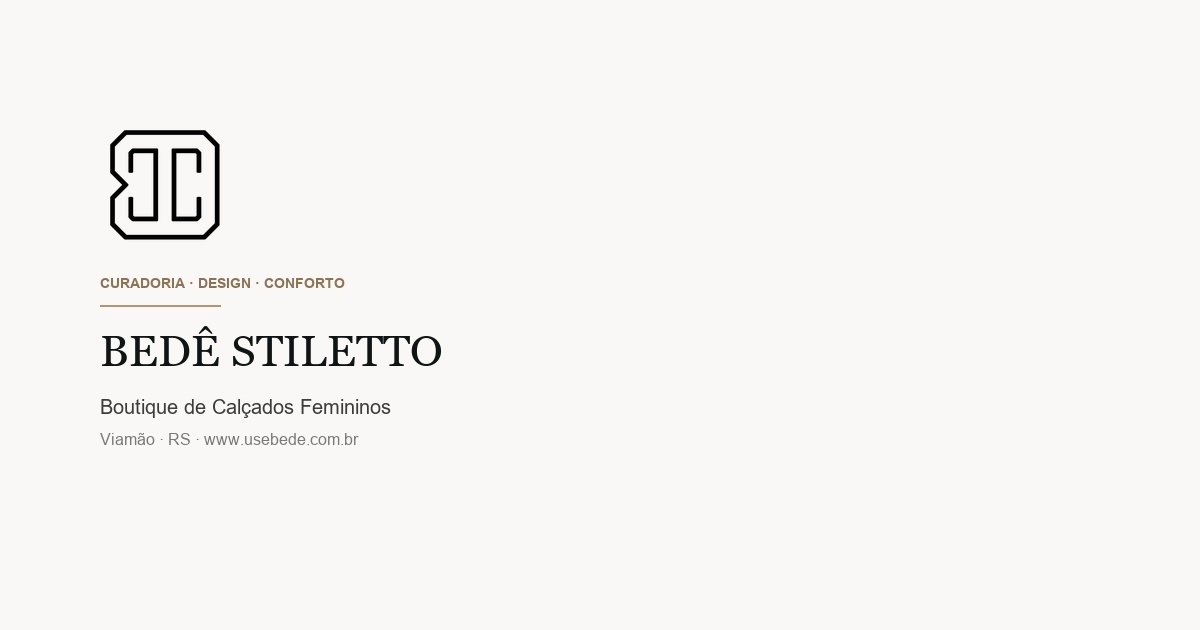
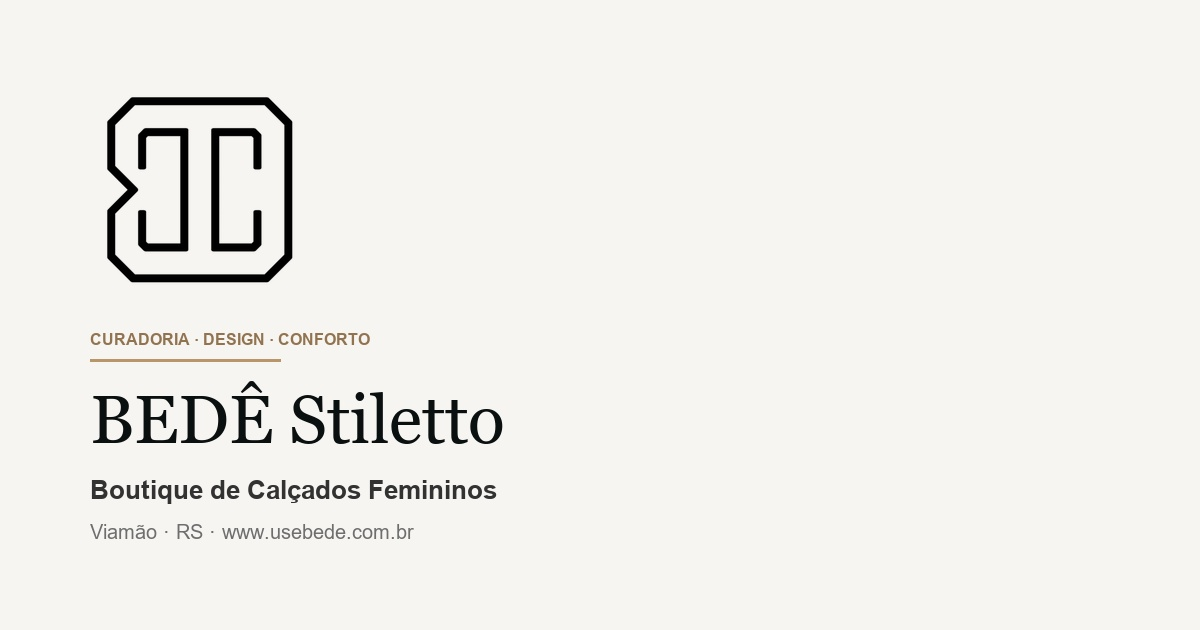
feat: enlarge monogram and typography in OG card and format BEDE Stiletto

Changed region(s): [[0.0617, 0.1508, 0.4317, 0.7238], [0.0617, 0.754, 0.4317, 0.8746]]

diff --git a/index.html b/index.html
@@ -15,15 +15,15 @@
   <meta property="og:site_name" content="BEDÊ Stiletto">
   <meta property="og:title" content="BEDÊ Stiletto — Boutique de Calçados Femininos | Viamão RS">
   <meta property="og:description" content="Calçados e bolsas femininas com curadoria, design e conforto. Boutique em Viamão/RS.">
-  <meta property="og:image" content="https://www.usebede.com.br/og-image.jpg?v=2026_light_v2">
-  <meta property="og:image:secure_url" content="https://www.usebede.com.br/og-image.jpg?v=2026_light_v2">
+  <meta property="og:image" content="https://www.usebede.com.br/og-image.jpg?v=2026_large_v3">
+  <meta property="og:image:secure_url" content="https://www.usebede.com.br/og-image.jpg?v=2026_large_v3">
   <meta property="og:image:type" content="image/jpeg">
   <meta property="og:image:width" content="1200">
   <meta property="og:image:height" content="630">
   <meta property="og:url" content="https://www.usebede.com.br">
-  <link rel="image_src" href="https://www.usebede.com.br/og-image.jpg?v=2026_light_v2">
+  <link rel="image_src" href="https://www.usebede.com.br/og-image.jpg?v=2026_large_v3">
   <meta name="twitter:card" content="summary_large_image">
-  <meta name="twitter:image" content="https://www.usebede.com.br/og-image.jpg?v=2026_light_v2">
+  <meta name="twitter:image" content="https://www.usebede.com.br/og-image.jpg?v=2026_large_v3">
 
   <!-- --vh fix: roda ANTES do CSS pintar (iOS Safari 100vh bug) -->
   <script>
